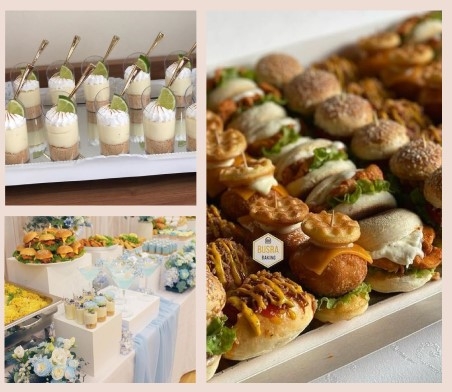
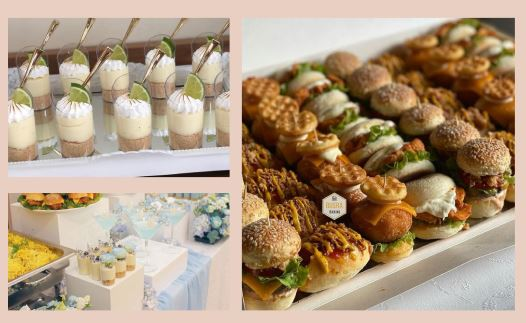
ajustes página cardápio e home

diff --git a/cardapio.css b/cardapio.css
@@ -8,21 +8,23 @@
   }
   
   .cardapio {
-      background-color: #0d0d0d1d;
-      padding: 100px;
-      display: flex;
-      flex-direction: column;
-      justify-content: center;
+    background-color: #0d0d0d1d;
+    padding: 40px;
+    display: flex;
+    flex-direction: column;
+    justify-content: center;
       
   }
+
+  .cardapio h2 {
+    margin: 30px;
+    }
   
   .cardapioimg {
-      justify-content: center !important;
-      /* background-color: #D7C4BA; */
-
-      /* padding-bottom: 80px;
-      padding: 25px; */
-      
+    justify-content: center !important; 
+    padding-bottom: 0px  !important; 
+    padding-left: 300px;
+    width: 1062px;
   }
 
 .gastronomia {
@@ -66,6 +68,10 @@
     /* flex-direction: column; */
     
 }  
+
+.osmelhorespratos h2 {
+  padding-right: 20px;
+}
 
 
 
@@ -203,6 +209,8 @@
   
   .slide {
     display: none;
+    width: 895px;
+    padding-left: 135px;
   }
   
   .prev, .next {

diff --git a/home.css b/home.css
@@ -38,6 +38,7 @@ body {
     justify-content: space-between;
 }
 
+
 .borda {
     background-color: #0d0d0d1d;
 }
@@ -194,6 +195,18 @@ body {
 
 #navbar-items {
     justify-content: space-between;
+}
+
+.tituloimg {
+  
+    background-color: 
+    #e8cfc1;
+    display: center;
+    justify-content: center !important;
+      padding-bottom: 3px;
+      /* height: 120px; */
+      width: 751px;
+      padding-left: 250px;
 }
 
 /* hxdsutfgwaurtfgawrufr */

diff --git a/cardapio.html b/cardapio.html
@@ -100,10 +100,6 @@
 <div class="gastronomia">
   <img src="img/gastronomia.jpg" class="gastronomiaimg" alt="">
   </div>
-
-
-  <br>
-
   <div class="slide-container">
 
     <div class="slide">

diff --git a/home.html b/home.html
@@ -224,7 +224,11 @@
   </div> -->
 
   <br>
-  <br>
+
+  <div class="tituloimg">
+    <img src="img/galeria.JPG" class="tituloimg" alt="">
+  </div>
+
   <br>
 
   <div class="slide-container">

diff --git a/eventos.css b/eventos.css
@@ -22,7 +22,7 @@ margin: 30px;
 .eventosimg {
   justify-content: center !important; 
   padding-bottom: 0px  !important; 
-  /* padding: 25px; */
+  padding-left: 80px;
   
 }
 
